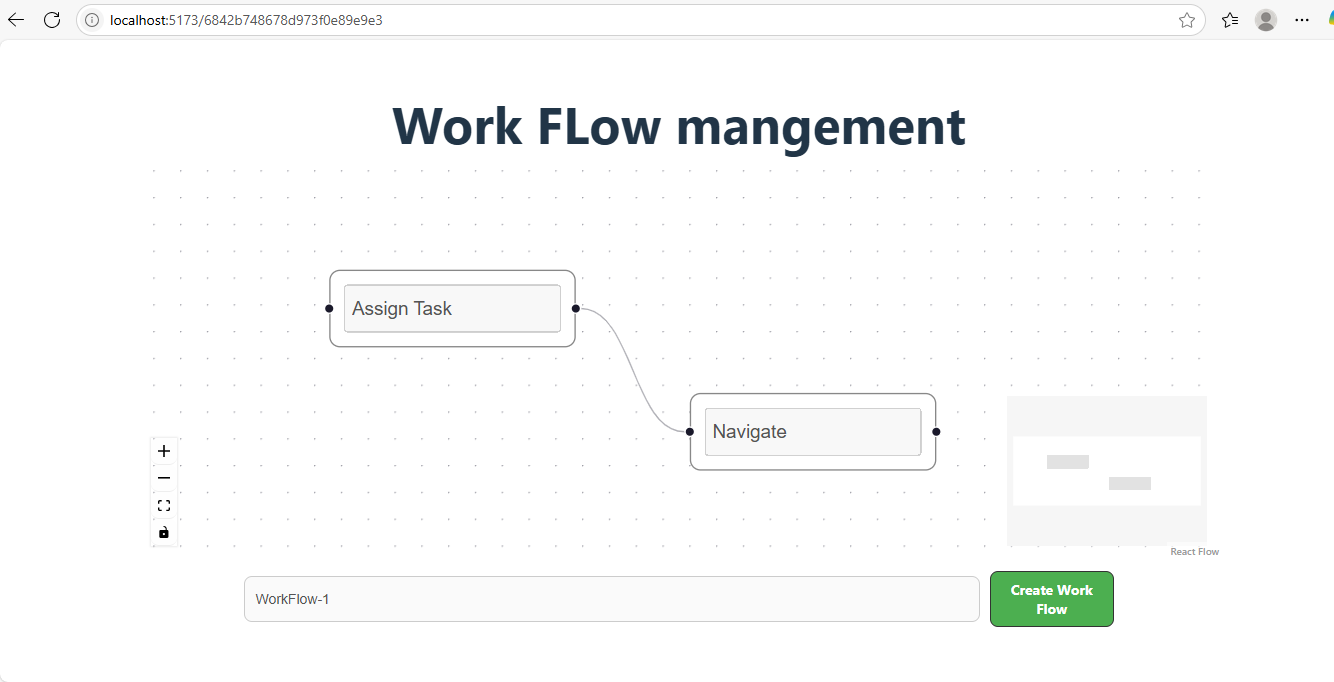
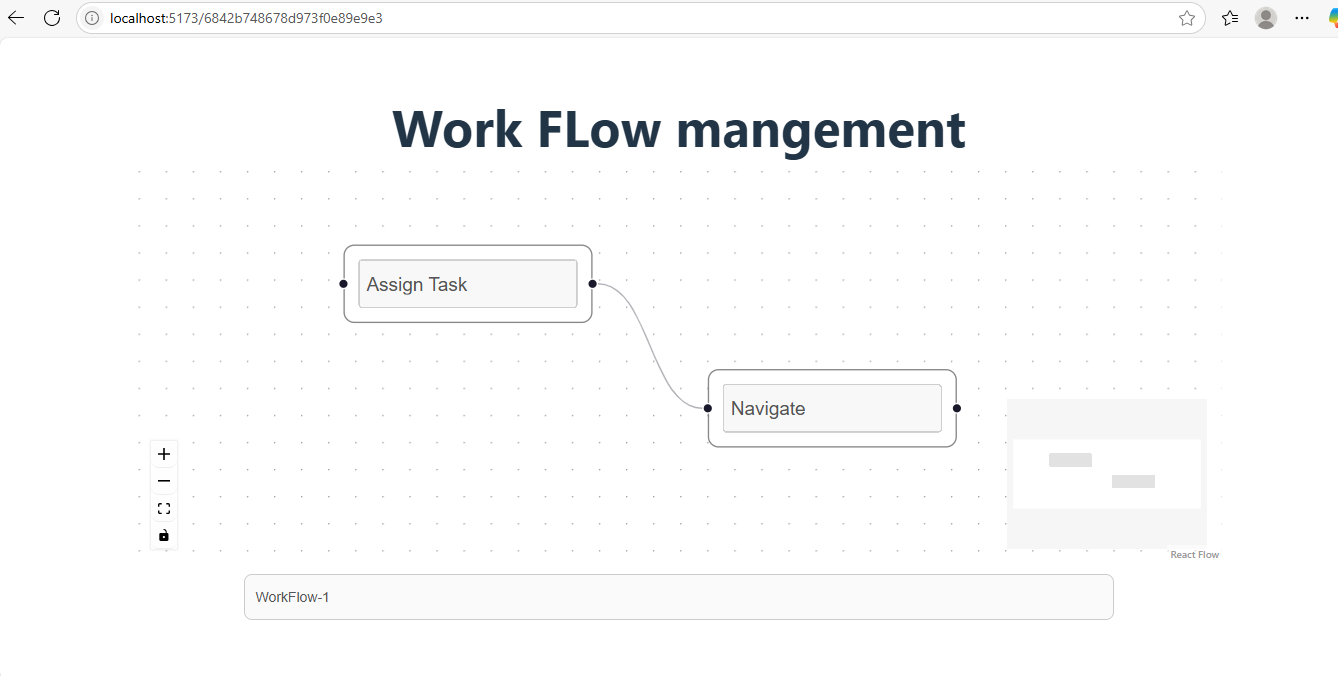
commit

diff --git a/client/src/component/nodes_and_transitions/FlowCanvas.jsx b/client/src/component/nodes_and_transitions/FlowCanvas.jsx
@@ -184,10 +184,10 @@ const FlowCanvas = () => {
               setWorkflowName(e.target.value);
             }}>
           </input>
+          {!inputstate && (
           <div style={{ textAlign: 'center', marginBottom: '10px' }}>
             <button
               onClick={CreateWorkFlow}
-              disabled={inputstate}
               style={{
                 padding: '8px 16px',
                 borderRadius: '8px',
@@ -201,6 +201,7 @@ const FlowCanvas = () => {
               Create Work Flow
             </button>
           </div>
+        )}
         </div>
       </div>
     </>

diff --git a/README.md b/README.md
@@ -53,7 +53,7 @@ Your backend server will be running at http://localhost:3000.
 ### To build and run in production mode:
 
 
-bun src/server.ts
+npm run start
 
 
 ### API Endpoints
